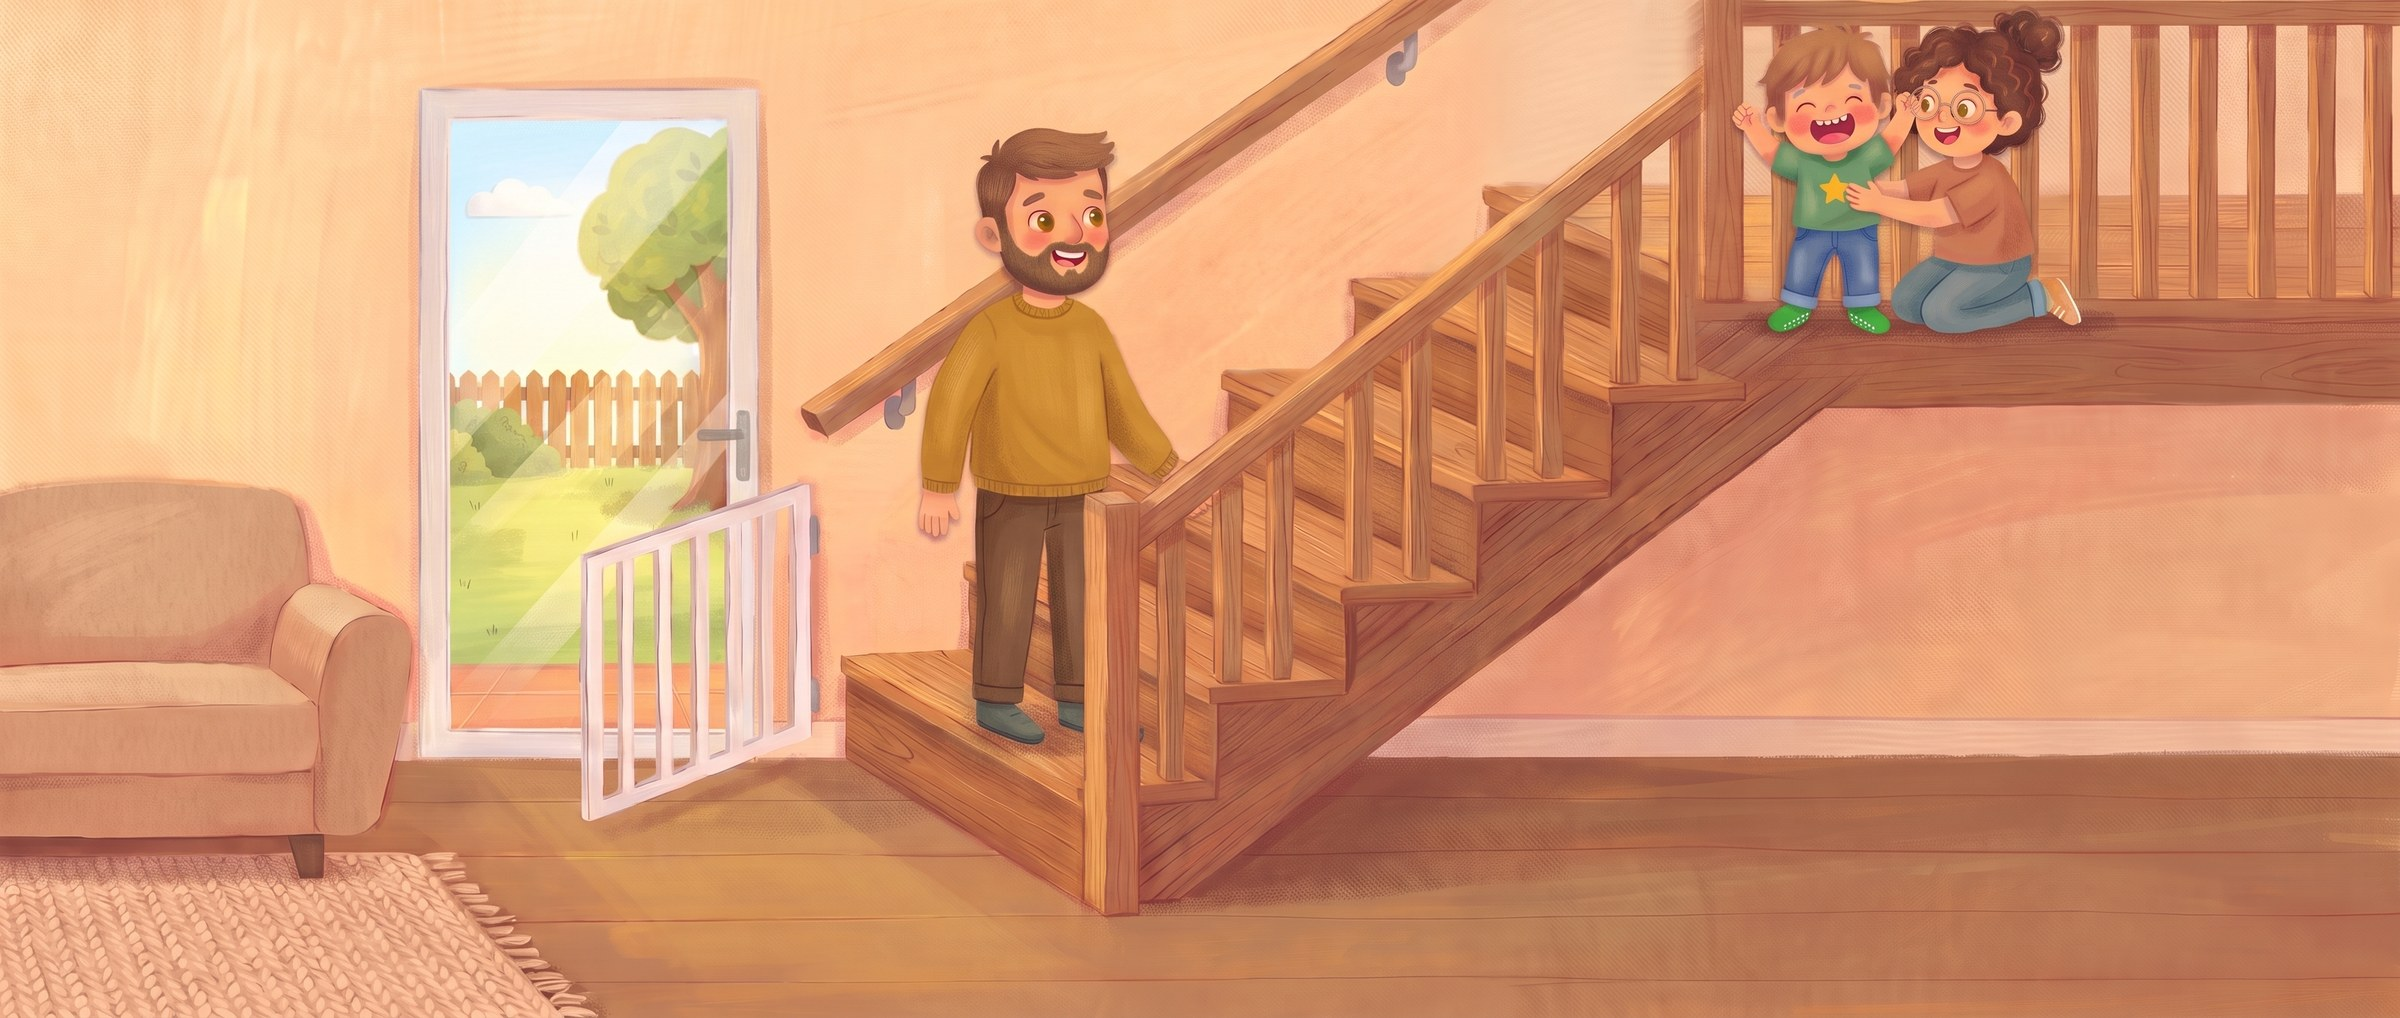
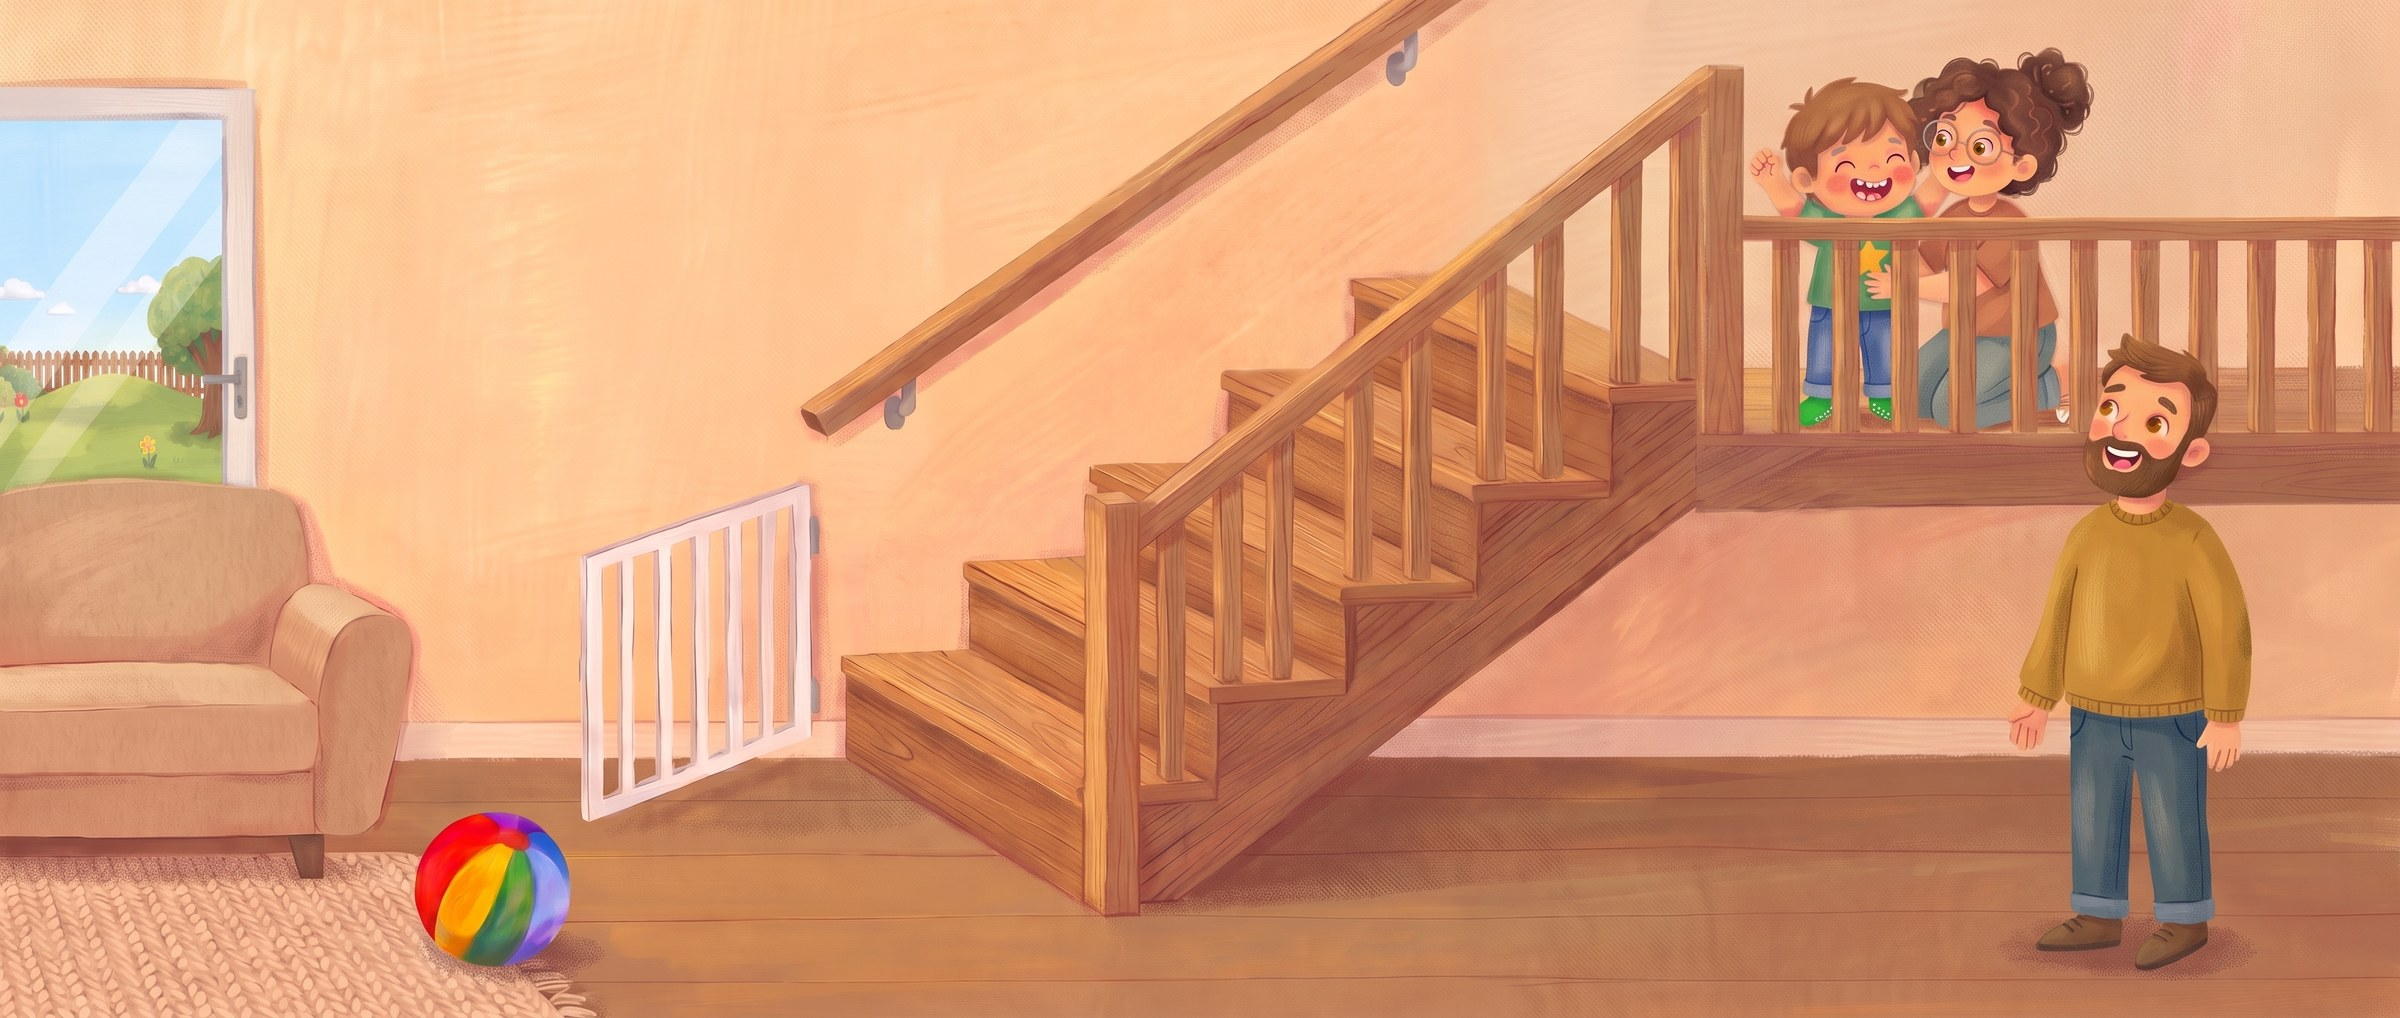
Libro 8: doble 6 y página 24 rehechas (del lado de adentro de la baranda); dobles 3 y 5 pendientes
Claude-Session: https://claude.ai/code/session_01D1pUKWwo8J3jsyg297Aijq

diff --git a/libros/08-subir-escaleras/ilustraciones.md b/libros/08-subir-escaleras/ilustraciones.md
@@ -12,7 +12,7 @@ Cada prompt se arma así: **[ESTILO] + escena + [REGLAS]**.
 
 **[REGLAS]**
 ```
-Only mom and dad may appear as adults, each at most once, no other people. An adult right next to the boy whenever he is on the stairs. Exactly one ball in the picture unless the scene says otherwise. Exactly six steps up to the landing whenever the stairs are shown. Keep faces and the ball away from the vertical center line. Calm plain wall in the upper part for text.
+Only mom and dad may appear as adults, each at most once, no other people. An adult right next to the boy whenever he is on the stairs. Exactly one ball in the picture unless the scene says otherwise. Exactly six steps up to the landing whenever the stairs are shown. On the stairs and on the landing, every person is always on the inner side of the banister, between the banister and the wall, with the balusters in front of them, between them and the viewer; nobody is ever on the outer side of the banister, on the outer edge of a step or on the front edge of the landing. Keep faces and the ball away from the vertical center line. Calm plain wall in the upper part for text.
 ```
 
 ---
@@ -34,7 +34,7 @@ Only mom and dad may appear as adults, each at most once, no other people. An ad
 
 ## Páginas 6–7 · Doble 3 · El primer escalón
 ```
-[ESTILO]. Close view of the bottom of the indoor wooden stairs. Tomi at the foot of the stairs, one hand holding the low banister post, lifting one foot up onto the first step, concentrating with the tip of his tongue out; the step looks high for him. Dad crouching right behind him with his hands close to Tomi, ready to help. The open white safety gate beside them. Living room floor on the left. [REGLAS]. Wide 21:9.
+[ESTILO]. Close view of the bottom of the indoor wooden stairs. Tomi standing on the floor at the foot of the stairs, on the inner side of the banister, between the wall and the banister post: the banister post and the balusters are in front of him, between him and the viewer. He holds the banister with one hand and lifts one foot up onto the first step, concentrating with the tip of his tongue out; the step looks high for him. Dad crouching on the floor right behind him, with his hands close to Tomi, ready to help. The open white safety gate beside them. Living room floor on the left. [REGLAS]. Wide 21:9.
 ```
 
 ## Páginas 8–9 · Doble 4 · Mano, pie, pie
@@ -44,12 +44,12 @@ Only mom and dad may appear as adults, each at most once, no other people. An ad
 
 ## Páginas 10–11 · Doble 5 · ESFUERZO
 ```
-[ESTILO]. The indoor wooden stairs. Tomi on the fourth step, leaning forward, lifting one leg up to the next step with a big effort: cheeks puffed, eyebrows up, a tiny drop of sweat on his forehead; one hand holding the low banister. Dad right beside him on the step below, encouraging him with a smile. Calm plain peach wall on the left half for a big word. [REGLAS]. Wide 21:9.
+[ESTILO]. The indoor wooden stairs. Tomi on the fourth step, on the inner side of the banister: the low diagonal banister and its balusters are in front of him, between him and the viewer. Both of his feet are on the steps, one foot lifting up to the next step; he leans forward with a big effort: cheeks puffed, eyebrows up, a tiny drop of sweat on his forehead; one hand holding the top rail of the banister. Dad standing on the floor right beside the stairs, close to Tomi, encouraging him with a smile. Calm plain peach wall on the left half for a big word. [REGLAS]. Wide 21:9.
 ```
 
 ## Páginas 12–13 · Doble 6 · ¡Llegué!
 ```
-[ESTILO]. The indoor wooden stairs with all six steps clearly visible and empty, from the floor up to the flat landing. Up on the landing, behind the horizontal banister, Tomi standing with both arms up in triumph, laughing; mom kneeling next to him on the landing, hugging him. Dad standing on the sixth step just below them, smiling. The six steps are plain, with nothing on them, so they can be numbered later. [REGLAS]. Wide 21:9.
+[ESTILO]. The indoor wooden stairs with all six steps clearly visible and empty, from the floor up to the flat landing. Up on the landing, safely behind the horizontal banister: the horizontal banister and its balusters are in front of them, between them and the viewer, so their legs are seen through the balusters. Tomi standing there with both arms up in triumph, laughing; mom kneeling next to him, hugging him. Dad standing on the floor at the foot of the stairs, looking up and smiling. [REGLAS]. Wide 21:9.
 ```
 
 ## Páginas 14–15 · Doble 7 · Bajar con cuidado
@@ -79,5 +79,5 @@ Premium children's picture book spot illustrations in exactly the same handmade 
 
 ## Página 24 · Para los grandes
 ```
-[ESTILO]. Small calm vignette in the lower half of the image, plain warm peach wall above: Tomi sitting on the bottom step of the indoor wooden stairs with Rula in his arms, resting and smiling; dad sitting on the step next to him. Soft afternoon light. Square 1:1.
+[ESTILO]. Small calm vignette in the lower half of the image, plain warm peach wall above: Tomi sitting on the knitted rug of the living room with Rula in his arms, resting and smiling; dad sitting on the rug next to him. The foot of the indoor wooden stairs in the soft background. Soft afternoon light. Square 1:1.
 ```

diff --git a/costos.md b/costos.md
@@ -124,7 +124,8 @@ Quedaban 571,5 créditos el 31/10/2026. El resto de los arreglos de la doble 8 (
 | 2 pruebas rehechas: portada y doble 4 (Nano Banana Pro) | 36 |
 | Lote: 11 páginas y la portada de cerca (Nano Banana Pro; la portada salió plana otra vez) | 216 |
 | Portada: edición de la doble 4 a cuadrado (Nano Banana 2) | 12 |
-| **Subtotal** | **372** |
+| Dobles 3, 5 y 6 y página 24 rehechas por la baranda (Nano Banana Pro; salieron bien la 6 y la 24) | 72 |
+| **Subtotal** | **444** |
 
 ## Lo que más encarece
 
